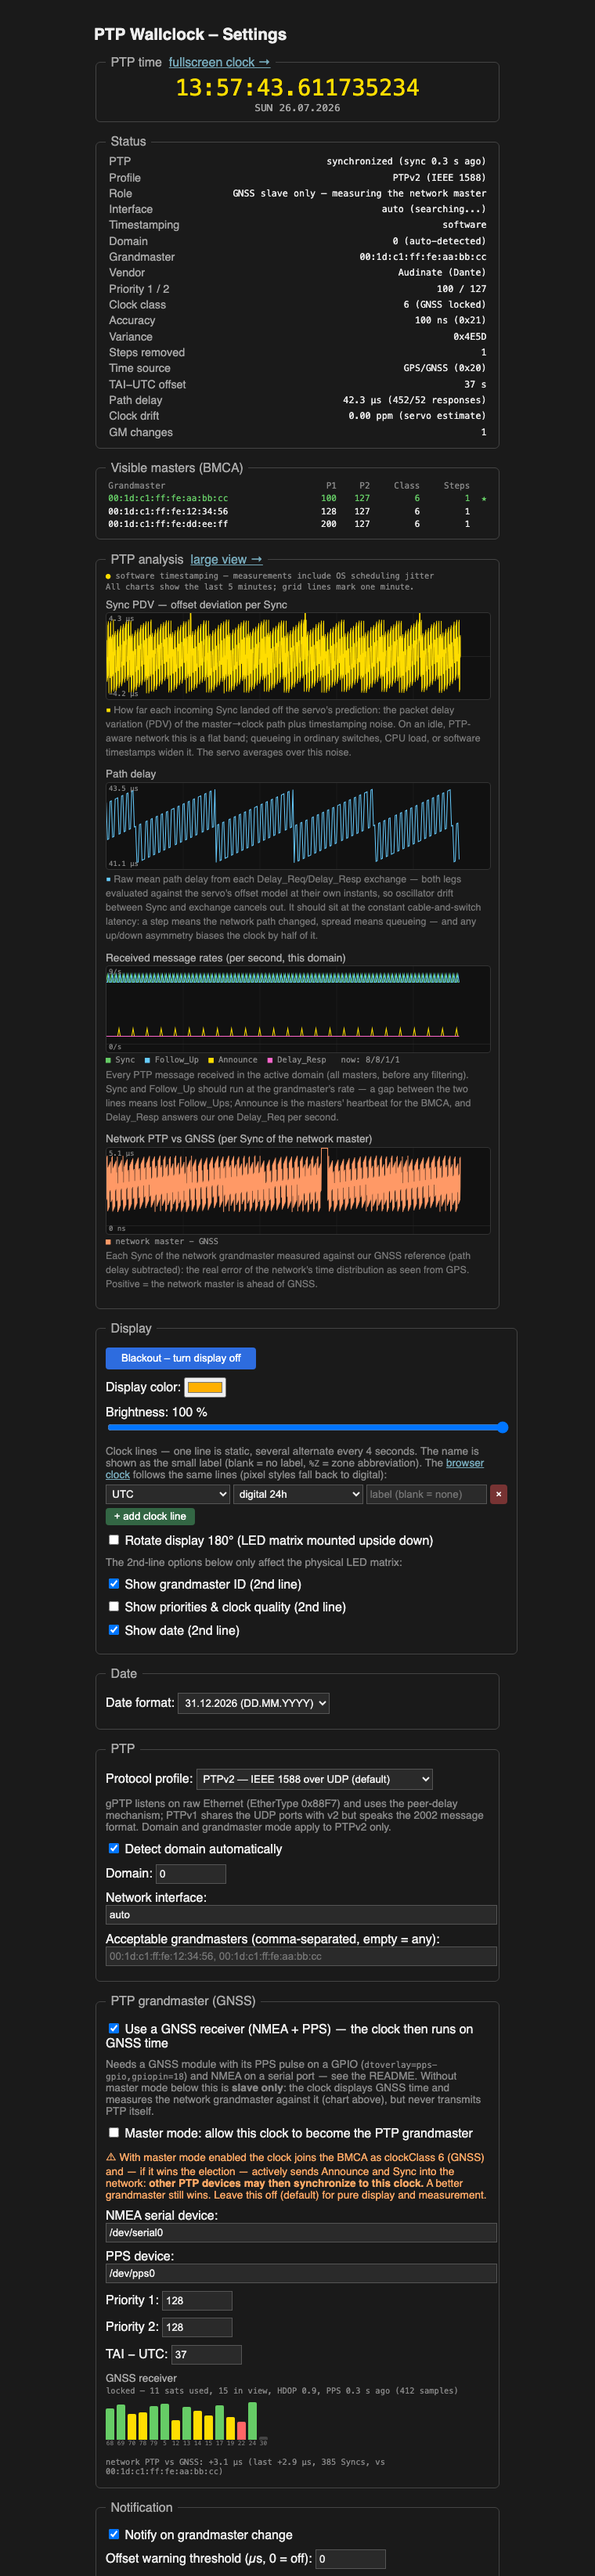
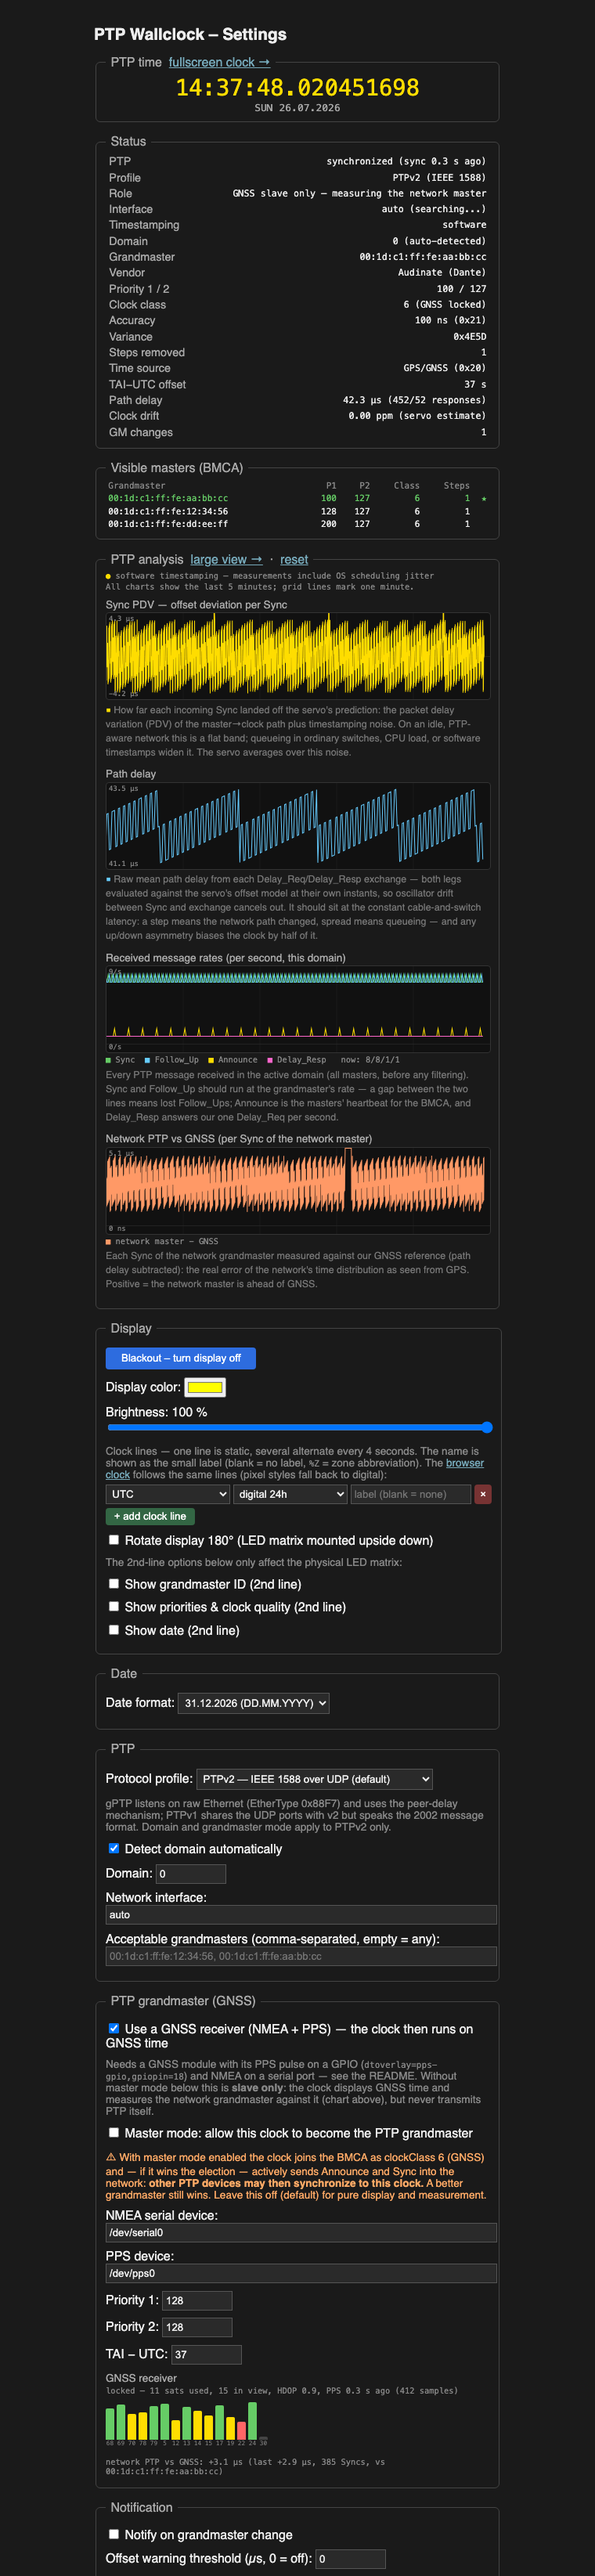
LED: separate Sync PDV and path delay graphs; web chart reset
The combined 'graph' style is split into 'pdv' (zero-centered, offset
deviation per Sync) and 'delay' (scaled around the data) — each a
single clean trace with scale labels; the message-rates style is gone
from the matrix (old graph/rates configs map to pdv). The web analysis
section gains a 'reset' link (settings page and /analysis) that clears
all history rings and restarts the PTP-vs-GNSS statistics via
POST /api/reset_history, applied by the main loop.

diff --git a/ptp-clock.cpp b/ptp-clock.cpp
@@ -137,7 +137,7 @@ struct ClockEntry {
 };
 
 static const char *kStyles[] = {"24h", "12h", "unix", "bcd", "flip",
-                                "dcf77", "graph", "rates"};
+                                "dcf77", "pdv", "delay"};
 
 static bool style_valid(const std::string &st) {
     for (const char *k : kStyles)
@@ -187,6 +187,8 @@ static std::vector<ClockEntry> clocks_parse(const std::string &in,
         if (e.zone.empty() || e.zone.size() > 48)
             e.zone = "UTC";
         e.style = item.substr(c1 + 1, c2 - c1 - 1);
+        if (e.style == "graph" || e.style == "rates")
+            e.style = "pdv";              // pre-split chart styles
         if (!style_valid(e.style))
             e.style = "24h";
         e.name = item.substr(c2 + 1);
@@ -320,6 +322,7 @@ static std::atomic<int> g_domain{-1};          // configured, -1 = auto
 static std::atomic<int> g_active_domain{-1};   // detected in auto mode
 static std::atomic<unsigned long long> g_last_announce_mono_ns{0};
 static std::atomic<bool> g_reset_ptp{false};   // web thread requests state reset
+static std::atomic<bool> g_hist_reset{false};  // web thread: clear the charts
 static std::atomic<bool> g_iface_changed{false};  // web thread changed iface
 static std::atomic<bool> g_iface_up{false};    // multicast currently joined
 
@@ -2597,7 +2600,8 @@ static const char *kIndexHtml = R"HTML(<!DOCTYPE html>
 
 <fieldset>
 <legend>PTP analysis &nbsp;<a href="/analysis" target="_blank"
- rel="noopener">large view &rarr;</a></legend>
+ rel="noopener">large view &rarr;</a> &nbsp;&middot;&nbsp;
+ <a href="#" id="hist_reset">reset</a></legend>
 <div class="chart-legend" id="ts_mode" style="margin:0 0 0.2em">&ndash;</div>
 <div class="chart-legend" style="margin:0 0 0.5em">All charts show the
 last 5 minutes; grid lines mark one minute.</div>
@@ -2808,7 +2812,7 @@ document.getElementById('domain_auto').addEventListener('change', syncDomainInpu
 const STYLES = [['24h', 'digital 24h'], ['12h', 'digital 12h (AM/PM)'],
   ['unix', 'Unix timestamp'], ['bcd', 'binary (BCD)'],
   ['flip', 'flip clock'], ['dcf77', 'DCF77 telegram'],
-  ['graph', 'PTP graph (jitter/delay)'], ['rates', 'PTP message rates']];
+  ['pdv', 'Sync PDV graph'], ['delay', 'path delay graph']];
 const ZONES = ['UTC', 'TAI', 'Europe/Berlin', 'Europe/Zurich',
   'Europe/Vienna', 'Europe/London', 'Europe/Paris', 'Europe/Moscow',
   'America/New_York', 'America/Chicago', 'America/Denver',
@@ -3128,6 +3132,11 @@ setInterval(pollHistory, 2000);
 for (const id of ['ch_pdv', 'ch_del', 'ch_rate', 'ch_cmp'])
   document.getElementById(id).onclick =
       () => window.open('/analysis', '_blank');
+document.getElementById('hist_reset').onclick = async (e) => {
+  e.preventDefault();
+  await fetch('/api/reset_history', { method: 'POST' });
+  setTimeout(pollHistory, 200);
+};
 
 const set = (id, text) => document.getElementById(id).textContent = text;
 function fmtOff(ns) {
@@ -3325,7 +3334,8 @@ static const char *kAnalysisHtml = R"ANA(<!DOCTYPE html>
 </style>
 </head>
 <body>
-<h1>PTP analysis &nbsp;<a href="/">&larr; settings</a></h1>
+<h1>PTP analysis &nbsp;<a href="/">&larr; settings</a>
+&nbsp;<a href="#" id="hist_reset">reset</a></h1>
 <div id="ts_mode">&ndash;</div>
 <div class="chart-legend">All charts show the last 5 minutes; grid lines
 mark one minute.</div>
@@ -3465,6 +3475,11 @@ async function poll() {
 poll();
 setInterval(poll, 2000);
 window.addEventListener('resize', poll);
+document.getElementById('hist_reset').onclick = async (e) => {
+  e.preventDefault();
+  await fetch('/api/reset_history', { method: 'POST' });
+  setTimeout(poll, 200);
+};
 </script>
 </body>
 </html>
@@ -3785,6 +3800,9 @@ static void handle_client(int fd) {
         send_response(fd, "200 OK", "application/json", status_json());
     } else if (method == "GET" && path == "/api/history") {
         send_response(fd, "200 OK", "application/json", history_json());
+    } else if (method == "POST" && path == "/api/reset_history") {
+        g_hist_reset = true;              // main loop clears the rings
+        send_response(fd, "200 OK", "application/json", "{\"ok\":true}");
     } else if (method == "POST" && path == "/api/settings") {
         auto kv = parse_form(body);
         {
@@ -4110,6 +4128,18 @@ int main(int argc, char **argv) {
 
         if (g_reset_ptp.exchange(false))
             reset_ptp_state();            // e.g. domain changed via web UI
+
+        if (g_hist_reset.exchange(false)) {
+            // Chart reset from the web UI: empty the analysis rings and
+            // restart the PTP-vs-GNSS statistics
+            std::lock_guard<std::mutex> lock(g_mutex);
+            g_hist_off_n = g_hist_off_i = 0;
+            g_hist_del_n = g_hist_del_i = 0;
+            g_hist_cmp_n = g_hist_cmp_i = 0;
+            g_hist_rate_n = g_hist_rate_i = 0;
+            g_cmp_have = false;
+            g_cmp_count = 0;
+        }
 
         if (g_iface_changed.exchange(false)) {
             for (const auto &j : joined) {
@@ -4558,15 +4588,13 @@ int main(int argc, char **argv) {
         // ages in seconds) for the graph styles
         int32_t hoff[kHistFast], hdel[kHistSlow];
         uint16_t hoff_age[kHistFast], hdel_age[kHistSlow];
-        uint16_t hrate[4][kHistSlow];
-        uint16_t hrate_age[kHistSlow];
-        int hoff_n = 0, hdel_n = 0, hrate_n = 0;
+        int hoff_n = 0, hdel_n = 0;
         {
             std::lock_guard<std::mutex> lock(g_mutex);
             s = g_settings;
             bool want_hist = false;
             for (const auto &ce : s.clocks)
-                if (ce.style == "graph" || ce.style == "rates")
+                if (ce.style == "pdv" || ce.style == "delay")
                     want_hist = true;
             if (want_hist) {
                 uint32_t led_now_ms = (uint32_t)(mono_ns() / 1000000ULL);
@@ -4589,19 +4617,6 @@ int main(int argc, char **argv) {
                             g_hist_off_i, hoff, hoff_age);
                 hdel_n = cp(g_hist_del, kHistSlow, g_hist_del_n,
                             g_hist_del_i, hdel, hdel_age);
-                for (int k = 0; k < g_hist_rate_n; ++k) {
-                    int idx = (g_hist_rate_i - g_hist_rate_n + k +
-                               2 * kHistSlow) % kHistSlow;
-                    const RateSample &r = g_hist_rate[idx];
-                    uint32_t age = (uint32_t)(led_now_ms - r.t_ms) / 1000;
-                    if (age > 300)
-                        continue;
-                    hrate[0][hrate_n] = r.sync;
-                    hrate[1][hrate_n] = r.fup;
-                    hrate[2][hrate_n] = r.ann;
-                    hrate[3][hrate_n] = r.dresp;
-                    hrate_age[hrate_n++] = (uint16_t)age;
-                }
             }
             gm_unaccepted = g_have_gm && !gm_acceptable_locked();
             if (g_have_gm) {
@@ -4946,49 +4961,34 @@ int main(int argc, char **argv) {
                     for (int dx = 0; dx < 3; ++dx)
                         cv->SetPixel(cx + dx, cy + 2 - dy, cc.r, cc.g, cc.b);
             }
-        } else if (style == "graph" || style == "rates") {
-            // PTP analysis on the matrix — same data as the web charts.
-            // "graph" plots the offset deviation per Sync plus the path
-            // delay samples, "rates" the received messages per second.
-            struct Series {
-                const int32_t *v;
-                const uint16_t *age;
-                int n;
-                Color col;
-            };
-            int32_t r32[4][kHistSlow];
-            std::vector<Series> series;
-            if (style == "graph") {
-                series.push_back({hdel, hdel_age, hdel_n,
-                                  Color(40, 140, 255)});
-                series.push_back({hoff, hoff_age, hoff_n, c_main});
-            } else {
-                const Color rc[4] = {Color(60, 220, 100),
-                                     Color(80, 190, 255),
-                                     Color(255, 210, 0),
-                                     Color(255, 90, 190)};
-                for (int f = 0; f < 4; ++f) {
-                    for (int k = 0; k < hrate_n; ++k)
-                        r32[f][k] = hrate[f][k];
-                    series.push_back({r32[f], hrate_age, hrate_n, rc[f]});
-                }
-            }
-            std::vector<int32_t> all;
-            for (const auto &sr : series)
-                all.insert(all.end(), sr.v, sr.v + sr.n);
+        } else if (style == "pdv" || style == "delay") {
+            // PTP analysis on the matrix — same data and 5-minute time
+            // axis as the web charts. "pdv" plots the offset deviation
+            // per Sync (zero-centered), "delay" the raw path delay
+            // samples (scaled around the data).
+            bool is_pdv = style == "pdv";
+            const int32_t *sv = is_pdv ? hoff : hdel;
+            const uint16_t *sage = is_pdv ? hoff_age : hdel_age;
+            int sn = is_pdv ? hoff_n : hdel_n;
+            Color scol = is_pdv ? c_main : Color(40, 140, 255);
+            std::vector<int32_t> all(sv, sv + sn);
             if ((int)all.size() < 2) {
                 if (have_small_font)
                     draw_center(small_font, "COLLECTING...",
                                 band_h / 2 + 3, c_dim);
             } else {
-                // Robust autoscale like the web charts: percentiles with
-                // zero included, outliers clip at the band edge
+                // Robust autoscale like the web charts: percentiles,
+                // outliers clip at the band edge. PDV is zero-centered,
+                // the delay chart scales around its data.
                 std::sort(all.begin(), all.end());
                 auto q = [&](double f) {
                     return (int64_t)all[(size_t)(f * (all.size() - 1))];
                 };
-                int64_t mn = std::min<int64_t>(q(0.03), 0);
-                int64_t mx = std::max<int64_t>(q(0.97), 0);
+                int64_t mn = q(0.03), mx = q(0.97);
+                if (is_pdv) {
+                    mn = std::min<int64_t>(mn, 0);
+                    mx = std::max<int64_t>(mx, 0);
+                }
                 if (mx == mn) { mx += 1; mn -= 1; }
                 int64_t margin = (mx - mn) * 12 / 100;
                 int64_t lo = mn - margin, hi = mx + margin;
@@ -5009,9 +5009,11 @@ int main(int argc, char **argv) {
                     return (int)((int64_t)(band_h - 1) -
                                  (v - lo) * (band_h - 1) / (hi - lo));
                 };
-                int yz = ypix(0);
-                for (int x = 0; x < W; ++x)
-                    cv->SetPixel(x, yz, c_dim.r, c_dim.g, c_dim.b);
+                if (is_pdv) {             // zero line
+                    int yz = ypix(0);
+                    for (int x = 0; x < W; ++x)
+                        cv->SetPixel(x, yz, c_dim.r, c_dim.g, c_dim.b);
+                }
                 // Connected polyline segment between two chart points
                 auto seg = [&](int x0, int y0, int x1, int y1,
                                const Color &col) {
@@ -5031,18 +5033,16 @@ int main(int argc, char **argv) {
                         prev = cy;
                     }
                 };
-                for (const auto &sr : series) {
-                    int px = -1, py = -1;
-                    for (int k = 0; k < sr.n; ++k) {
-                        int x = xpos(sr.age[k]);
-                        int y = ypix(sr.v[k]);
-                        if (px < 0)
-                            seg(x, y, x, y, sr.col);
-                        else
-                            seg(px, py, x, y, sr.col);
-                        px = x;
-                        py = y;
-                    }
+                int px = -1, py = -1;
+                for (int k = 0; k < sn; ++k) {
+                    int x = xpos(sage[k]);
+                    int y = ypix(sv[k]);
+                    if (px < 0)
+                        seg(x, y, x, y, scol);
+                    else
+                        seg(px, py, x, y, scol);
+                    px = x;
+                    py = y;
                 }
                 // Scale labels, scope-style on a black backing
                 if (have_small_font) {
@@ -5058,15 +5058,10 @@ int main(int argc, char **argv) {
                                  nullptr, txt, 1);
                     };
                     char lab[12];
-                    if (style == "rates") {
-                        snprintf(lab, sizeof(lab), "%d/s", (int)mx);
-                        scale_label(lab, true);
-                    } else {
-                        format_compact_ns(lab, sizeof(lab), mx);
-                        scale_label(lab, true);
-                        format_compact_ns(lab, sizeof(lab), mn);
-                        scale_label(lab, false);
-                    }
+                    format_compact_ns(lab, sizeof(lab), mx);
+                    scale_label(lab, true);
+                    format_compact_ns(lab, sizeof(lab), mn);
+                    scale_label(lab, false);
                 }
             }
         } else {

diff --git a/README.md b/README.md
@@ -50,8 +50,9 @@ I've used it to demonstrate that PTP is really distributing the Time at my Speec
   alternate every 4 seconds.
   Styles: digital 24h/12h, Unix timestamp, binary (BCD), flip clock,
   DCF77 telegram — all with the full nine fractional digits — plus the
-  live PTP analysis charts (offset jitter & path delay, or message rates)
-  as display lines on the matrix itself
+  live PTP analysis graphs (Sync PDV or path delay, with scale labels
+  and the same 5-minute time axis as the web) as display lines on the
+  matrix itself
 - Optional second display line: date, grandmaster ID and/or priorities &
   clock quality (alternating every 4 seconds)
 - Grandmaster changes are shown on the display itself ("! NEW GM !")
@@ -251,10 +252,11 @@ Follow_Up, Announce, Delay_Resp) in the active domain. The charts
 auto-scale on percentiles, so the step of a master switch doesn't flatten
 the interesting µs range. It also states whether the data comes from
 hardware or software timestamps. Clicking a chart (or the *large view*
-link) opens a fullscreen version at `/analysis`. And because the charts
-are clock-line styles too (`PTP graph`, `PTP message rates`), they can be
-put on the LED matrix itself — as an extra alternating line or as a
-dedicated 128×32 jitter display.
+link) opens a fullscreen version at `/analysis`; the *reset* link clears
+the history. And because the charts are clock-line styles too
+(`Sync PDV`, `path delay`), they can be put on the LED matrix itself —
+as an extra alternating line or as a dedicated 128×32 jitter display
+with scope-style scale labels.
 
 > Note: browser push notifications require the page to be allowed to notify;
 > on plain HTTP some browsers only show the in-page banner.
